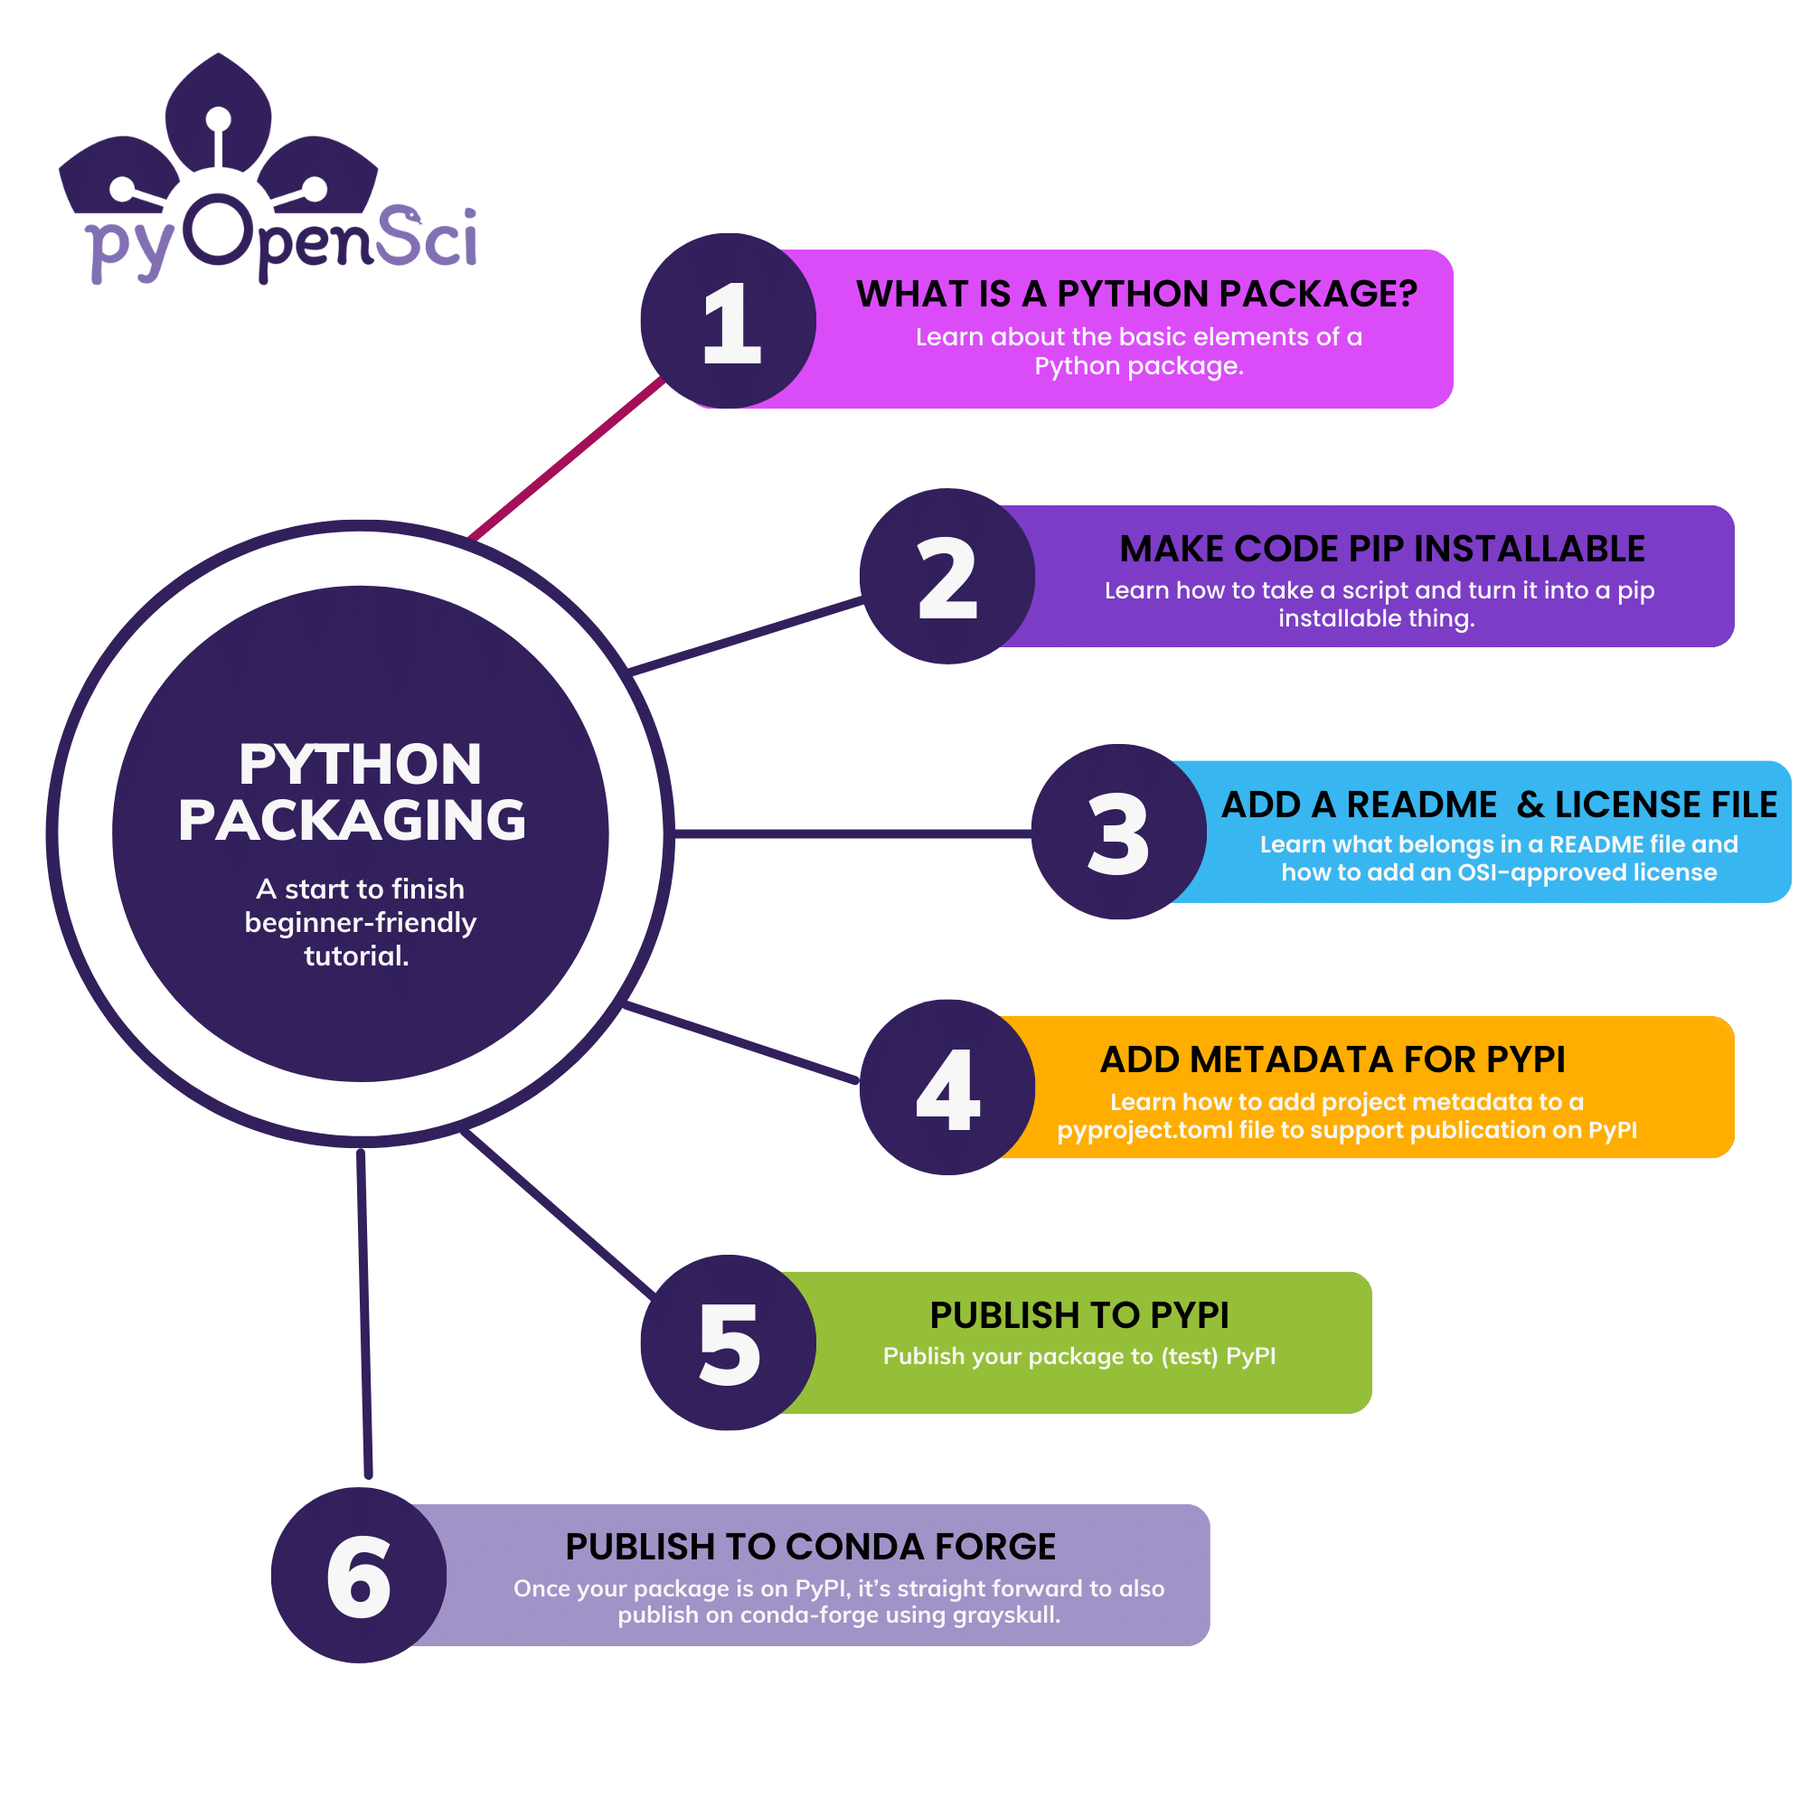
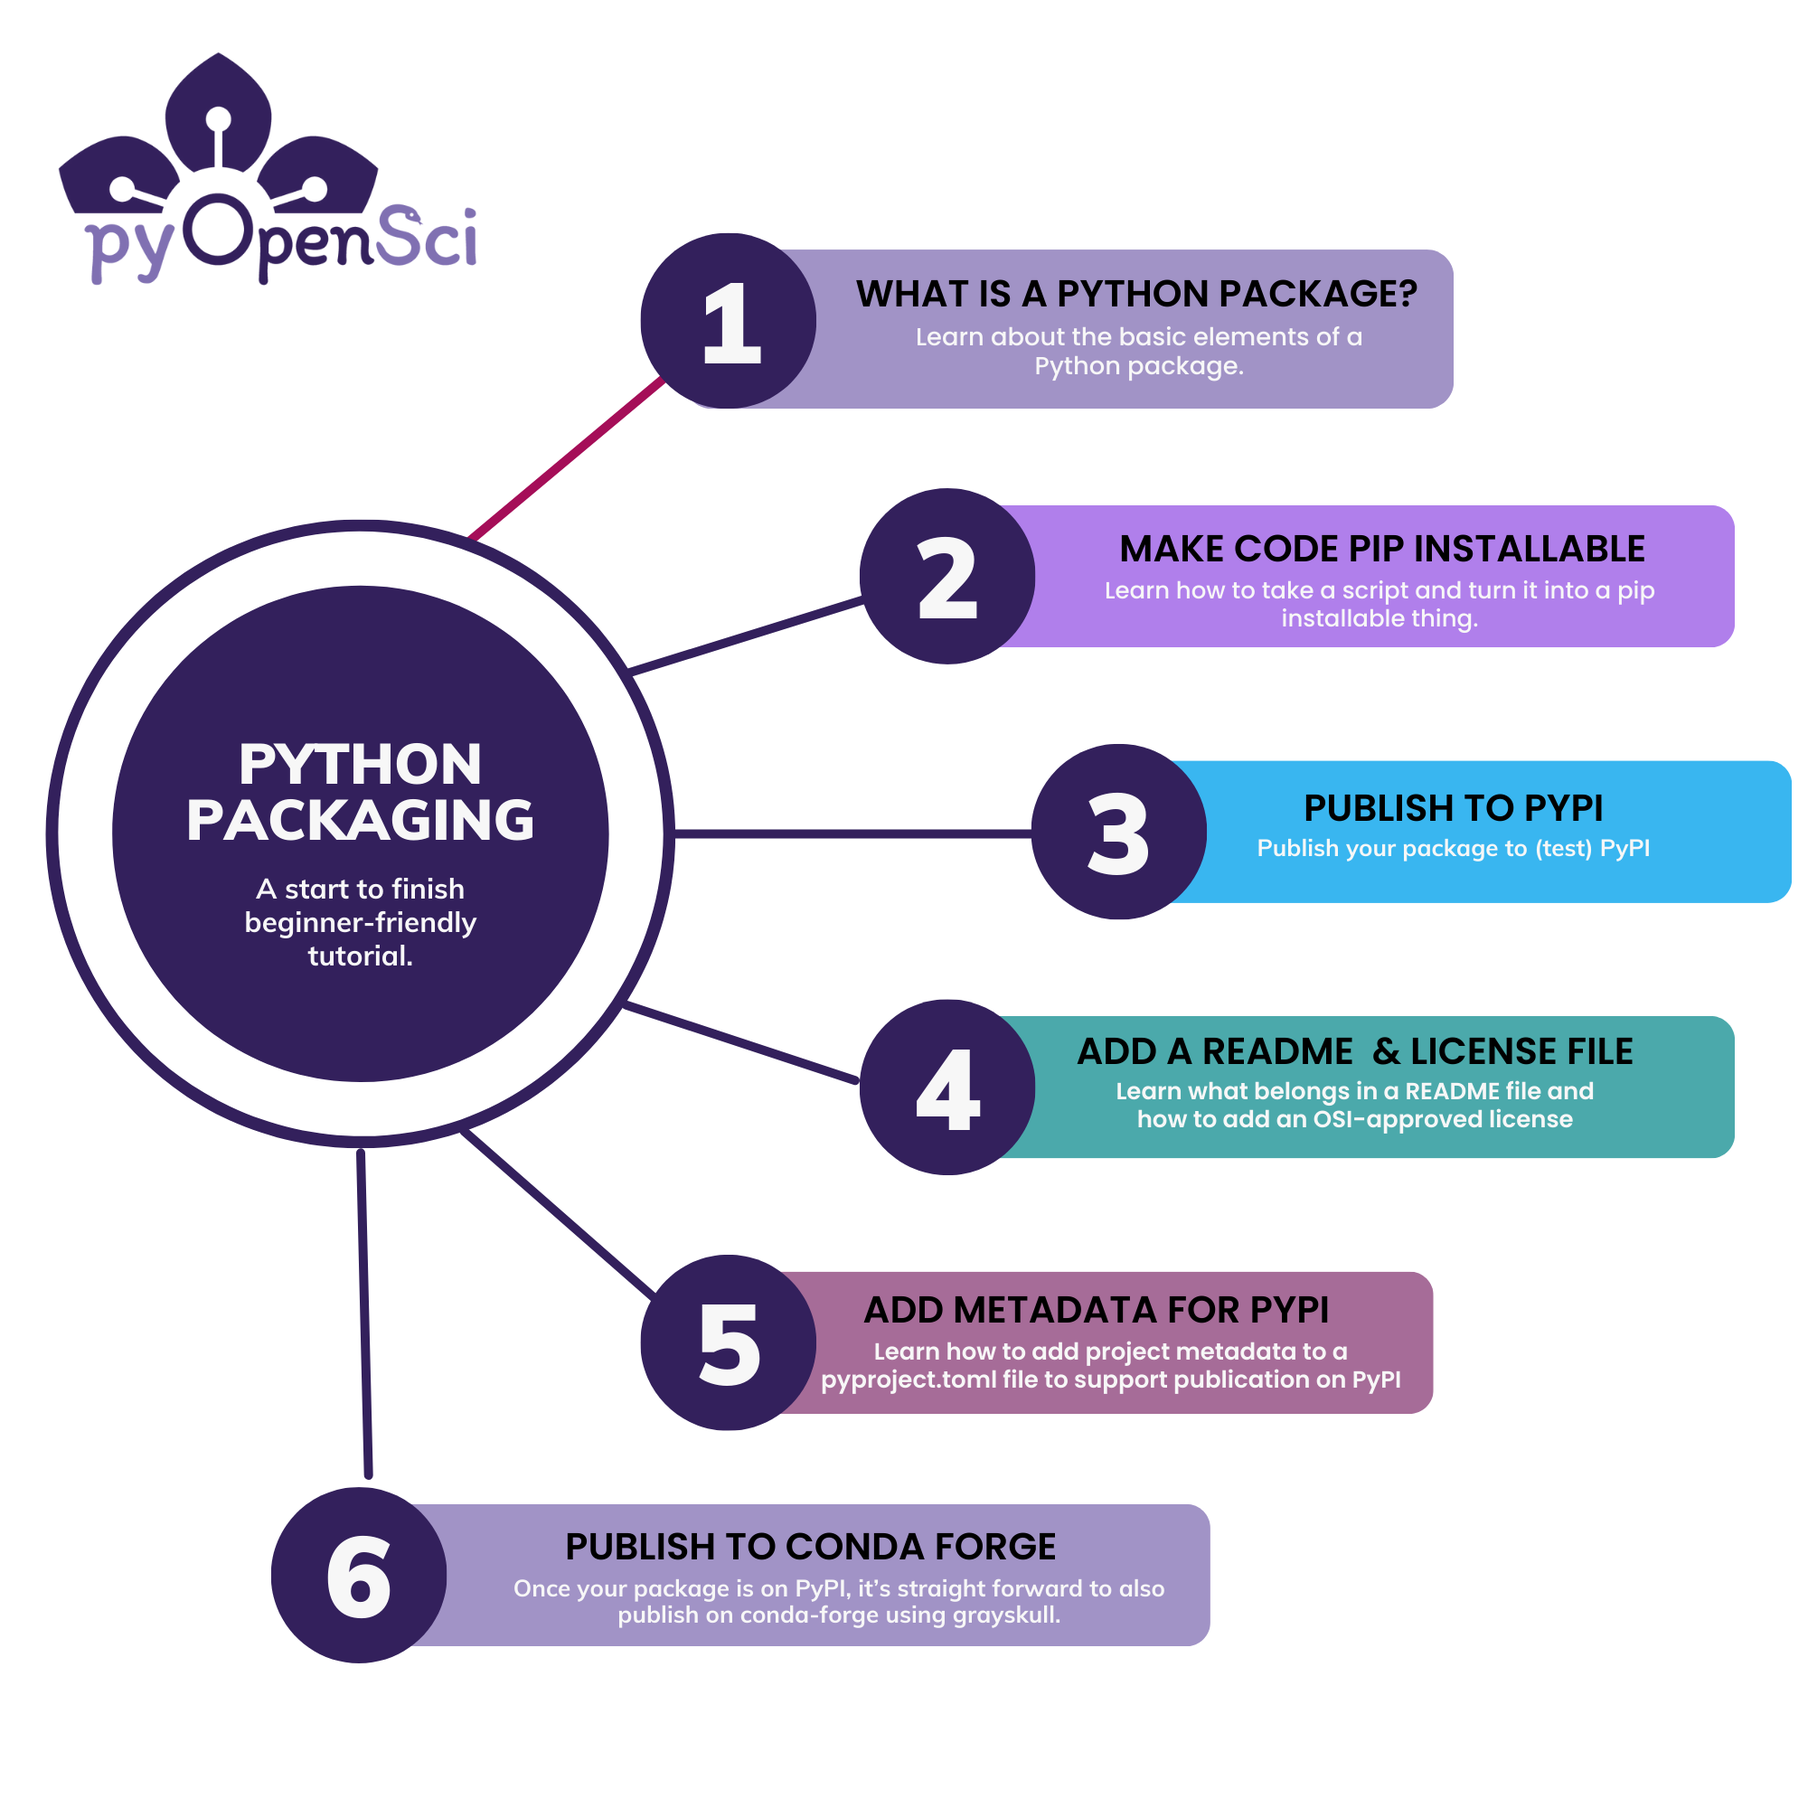
Fix: alt tags and spelling
Final alt tags and cleanup

diff --git a/tutorials/intro.md b/tutorials/intro.md
@@ -7,9 +7,9 @@ create a Python package.
 
 :::{figure-md} packaging-outline
 
-<img src="../images/tutorials/packaging-101-outline.png" alt="Diagram showing the lessons in our packaging tutorial." width="800px">
+<img src="../images/tutorials/packaging-101-outline.png" alt="Diagram showing the lessons in our packaging tutorial. There are 6 total - what is a python package, make code pip installable, publish your package to PyPI, add a readme and license file, add metadata for pypi and finally publish to conda forge." width="800px">
 
-Packaging tutorial overview graphic
+This lesson is the first in a series of lessons to help you get started with Python packaging.
 :::
 
 ## Who are these tutorials for?
@@ -43,7 +43,7 @@ After reading this lesson you will:
 
 - Understand what a Python package is
 - Be able to list the 5 core components of a Python package
-- You will be able to explain the difference between generalizable code and code that supports a specific scientific application
+- Be able to explain the difference between generalizable code and code that supports a specific scientific application
 
 :::
 
@@ -60,7 +60,7 @@ Structurally, in Python, a package is a directory with a specific
 file structure. Within the package directory structure, there are
 modules which are files that end in `.py` (the same extension you'd
 see in a Python script). These modules allow you to group and
-structure yourPython code. Each module contains functions and classes,
+structure your Python code. Each module contains functions and classes,
 that you can think about as the tools in your toolbox.
 
 :::{figure-md} python-toolbox
@@ -73,10 +73,11 @@ well.
 :::
 
 ### Python packages are installable
+
 A package is installable, which means that you can add the
 functionality within the package's code to any Python environment and
 import that functionality like you would import core Python packages such
-as NumPy or matplotlib.
+as NumPy or Matplotlib.
 
 ```python
 import numpy
@@ -88,11 +89,11 @@ Structuring your code as a package is the first step you need to take so you can
 
 ## Why create a Python package?
 
-There are numerous reasons why you might create a Python package:
+You might create a Python package because you want to:
 
-- **Use your code across multiple projects:** At its most basic level, creating a package allows you to install your code into a Python environment. This allows you to then import functions and classes into any workflows both locally and in the cloud..
-- **Share your code:** Sharing your code with others is often a common reason to create a package. If you publish a package on a public repository such as PyPI or conda, immediately your package can be installed on any machine using pip or conda with a single command.
-- **Build community around your code:** Packages make it easier for multiple people to work on the same project (particularly when published on Github). A version platform such as git (the version control system used by GitHub), further makes it easier to track changes to the codebase over time. Tools such as issues and pull requests make it easier for outside users to contribute bug fixes and to establish review processes for accepting changes to the code base..
+- **Use your code across different projects:** At its most basic level, creating a package allows you to install your code into a Python environment. This allows you to then import functions and classes into any workflows both locally and in the cloud..
+- **Share your code:** If you publish a package on a public repository such as PyPI or conda, your package can be installed on any machine using pip or conda with a single command.
+- **Build community around your code:** Packages make it easier for multiple people to work on the same project (particularly when published on GitHub). A version platform such as git (the version control system used by GitHub), further makes it easier to track changes to the codebase over time. Tools such as issues and pull requests make it easier for outside users to contribute bug fixes and to establish review processes for accepting changes to the code base..
 - **Organize your code:** Packages can be used to organize large code projects, dividing them into smaller, more manageable components. This structure can help with both maintaining the codebase and with making it easier to understand.
 
 ### What to consider before you create a package
@@ -105,7 +106,7 @@ time and effort. Before you begin, think about your goals including:
 - Whether you have time to add things such as documentation and tests
 - How long you might be able to maintain it: remember that once people begin using your package they will depend on your maintainer team to update it, fix bugs and answer questions.
 
-Before creating a package that is user-facing, it's important to consider all of the above!
+Before creating a user-facing package, it's important to consider all of the above.
 
 ## The elements of a Python package
 
@@ -227,8 +228,8 @@ supports a specific research project. It aims to enhance the reproducibility and
 transparency of research by providing a comprehensive record of the methods,
 data, and analyses used in a study.
 
-A Python package however is a collection of modules that are focused on a
-specific set of tasks that can be applied across numerous research projects.
+A Python package is a collection of modules that can be used to perform a
+specific set of tasks. These tasks should be applicable to numerous workflows.
 As such a Python package is more generalizable than a Research Compendium
 which supports a specific project.
 
@@ -240,30 +241,30 @@ which supports a specific project.
 Below are a few examples well scoped pyOpenSci packages:
 
 * [Crowsetta](https://crowsetta.readthedocs.io/en/latest/): is a package designed to work with annotating animal vocalizations and bioacoustics data. This package helps scientists process different types of bioacoustic data rather than focusing on a specific individual research application associated with a user-specific research workflow.
-* [pandera](https://www.union.ai/pandera) is another more broadly used Python package. Pandera supports data testing and thus also has a broader research application.
+* [Pandera](https://www.union.ai/pandera) is another more broadly used Python package. Pandera supports data testing and thus also has a broader research application.
 
 :::{admonition} Matplotlib as an example
 
 At the larger end of the user spectrum, Matplotlib is a great example.
-Matplotlib does one (big important) thing really well:
+Matplotlib does one thing really well:
 
 *It creates visual plots of data.*
 
-Matplotlib is used by thousands of users for different plotting applications
+Thousands of people use Matplotlib for different plotting applications
 using different types of data. While few scientific packages will have the same
-broad application and large user base as tools like Matplotlib, the
+broad application and large user base that Matplotlib has, the
 idea of scoping out what your package does is still important.
 :::
 
 ### Code should also be clean & readable & documented
 
-The code in your package should also be clean, readable and well documented.
+The code in your package should also be clean, readable, and well documented.
 
 **Clean code:** Clean code refers to code that uses expressive variable names,
-is concise and does not repeat itself. We will dive deeper into best practices
+is concise and doesn't repeat itself. You can learn about best practices
 for clean code in future pyOpenSci tutorials.
 
-**Readable code:** Readable code is code written with a consistent style.
+**Readable code:** readable code is code written with a consistent style.
 You can use linters and code formatters such as black and flake8 to ensure
 this consistency throughout your entire package. [Learn more about code formatters here.](../package-structure-code/code-style-linting-format.html)
 
@@ -275,7 +276,7 @@ what the input and output elements of each function is. [You can learn more abou
 
 ### Python packages and environments
 
-A Python package can be installed into a Python environment in the same way
+You can install a Python package into a Python environment in the same way
 you might install NumPy or pandas. Installing your package into an environment
 allows you to access it from any code run with that specific Python environment activated.
 
@@ -283,7 +284,7 @@ allows you to access it from any code run with that specific Python environment 
 
 <img src="../images/tutorials/environment-package-install.png" alt="Diagram showing the steps associated with creating a package and then installing it. The first arrow says your package and the second says pip install package. The second arrow leads to a box that represents a python environment that already has some packages installed such as pandas and NumPy. Your package will also get installed into that same environment when you pip install it." width="700px">
 
-You don't have to publish to PyPI in order to make your code installable.
+You don't have to publish to PyPI to make your code installable.
 With the correct file structure and project metadata you can make your code
 installable locally on your computer and use it for projects that you are working
 on without having to ever publish to PyPI. Publishing to PyPI is useful when you
@@ -300,25 +301,25 @@ publish it in a repository such as **PyPI** or **conda-forge**.
 The links below won't work until those lessons (which are written) are published.
 :::
 
-In this tutorial, you will learn [how to publish to PyPI.](6-publish-pypi.md)
+Learn [how to publish your package to PyPI in this tutorial.](6-publish-pypi.md)
 
 :::{todo}
 This lesson is also not published - yet but will be reviewed soon.
 :::
 
-Then you can create a conda-forge recipe using the [grayskull](https://github.com/conda/grayskull) tool. This recipe can then be submitted to conda-forge. [You will learn more about the conda-forge publication process here.](7-publish-conda-forge.md)
+Then you can create a conda-forge recipe using the [Grayskull](https://github.com/conda/grayskull) tool. You can then submit this recipe to conda-forge. [You will learn more about the conda-forge publication process here.](7-publish-conda-forge.md)
 
 
 :::{figure-md} build-workflow-tutorial
 <img src="../images/tutorials/publish-package-pypi-conda.png" alt="Graphic showing the high level packaging workflow. On the left you see a graphic with code, metadata and tests in it. Those items all go into your package. Documentation and data are below that box because they aren't normally published in your packaging wheel distribution. an arrow to the right takes you to a build distribution files box. that box leads you to either publishing to testPyPI or the real PyPI. From PyPI you can then connect to conda forge for an automated build that sends distributions from PyPI to conda-forge." width="700px">
 
-In the above image you can see the steps associated with publishing
-your package on PyPI and conda forge. Note that the distribution files that PyPI requires are the [sdist](#sdist) and [wheel](#wheel) files. Once you are ready to make your code publicly installable, you can publish it on PyPI. Once your code is on PyPI it is straight forward to then publish to conda forge. You create a recipe using the grayskull package and then you open a pr in the conda-forge recipe repo. You will learn more about this process in the [conda-forge lesson](#).
+In the image above, you can see the steps associated with publishing
+your package on PyPI and conda forge. Note that the distribution files that PyPI requires are the [sdist](#sdist) and [wheel](#wheel) files. Once you are ready to make your code publicly installable, you can publish it on PyPI. Once your code is on PyPI it is straight forward to then publish to conda forge. You create a recipe using the Grayskull package and then you open a pr in the conda-forge recipe repo. You will learn more about this process in the [conda-forge lesson](#).
 :::
 
 ## Yay, your package has users! Now what?
 
-As the community using your package grows, you may also find yourself managing users, contributors and others who want to interact with your package. It’s important to consider all this before you dive into development. Once you have a user base in the community, people will depend upon your code to work and will need direction regarding how to use it.
+As the community using your package grows, you may also find yourself managing users, contributors, and others who want to interact with your package. It’s important to consider all this before you dive into development. Once you have a user base in the community, people will depend upon your code to work and will need direction regarding how to use it.
 
 To support your community, you'll want to add things like:
 
@@ -330,13 +331,13 @@ To support your community, you'll want to add things like:
 
 If you intend for others to use and contribute to your code, consider who will maintain it over time. You will want a **contributing and development** guide to help new potential contributors get started with contributing to your package, as well as a **code of conduct** to ensure community interactions remain healthy both for you and your contributors and maintainer team.
 
-The elements above are also important for future maintenance of your package. In the case that you are no long able to maintain it or simply want extra help, development and contributing documentation will help you onboard new maintainers.
+The elements above are also important for future maintenance of your package. In the case that you are no long able to maintain it or simply want extra help, development, and contributing documentation will help you onboard new maintainers.
 :::
 
 *****
 
 ## What's next?
 
-In future lessons we will talk more about the infrastructure around a published Python package that makes it both easier to maintain, easier for others to contribute to and easier for other scientists to use. However, first we want to get you to your initial goal of publishing a Python package.
+In future lessons you will learn talk more about the infrastructure around a published Python package that makes it both easier to maintain, easier for others to contribute to and easier for other scientists to use. However, first we want to get you to your initial goal of publishing a Python package.
 
 In this next lesson you will learn how to create a basic installable Python package.
